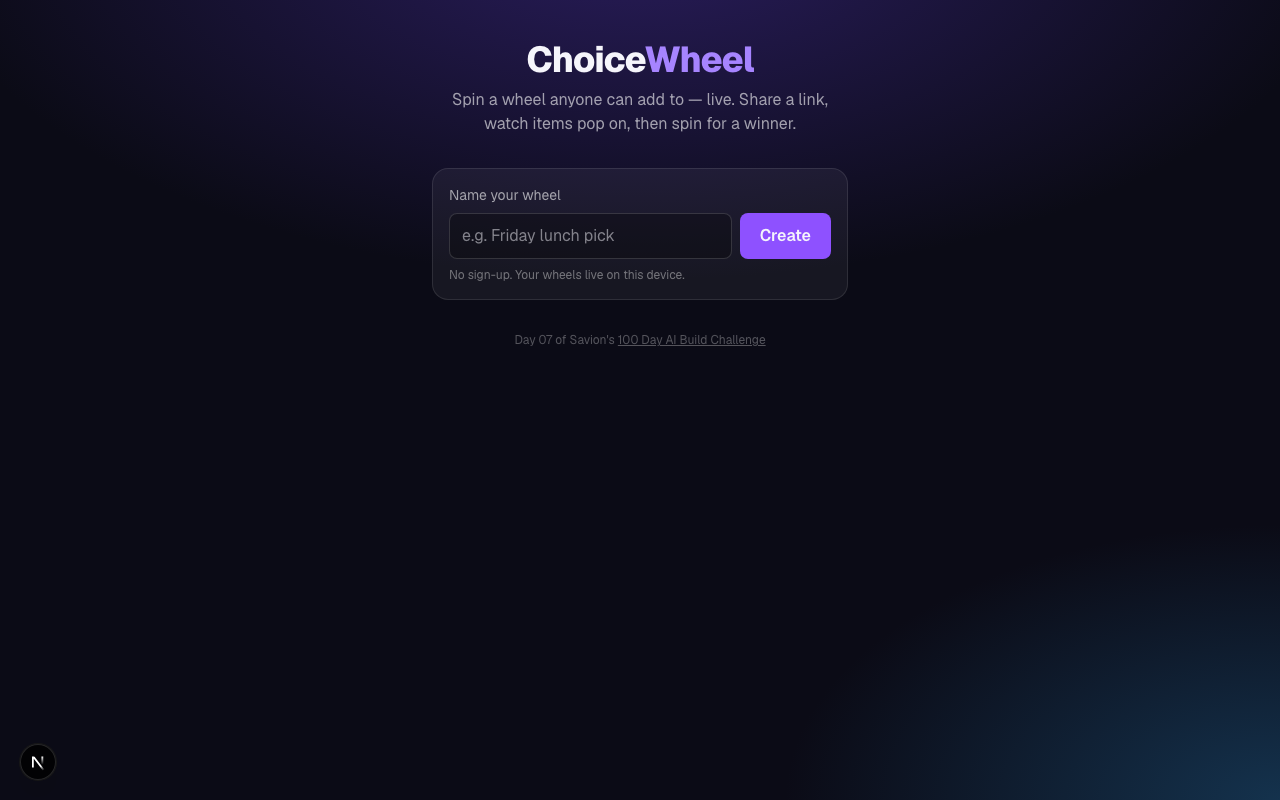
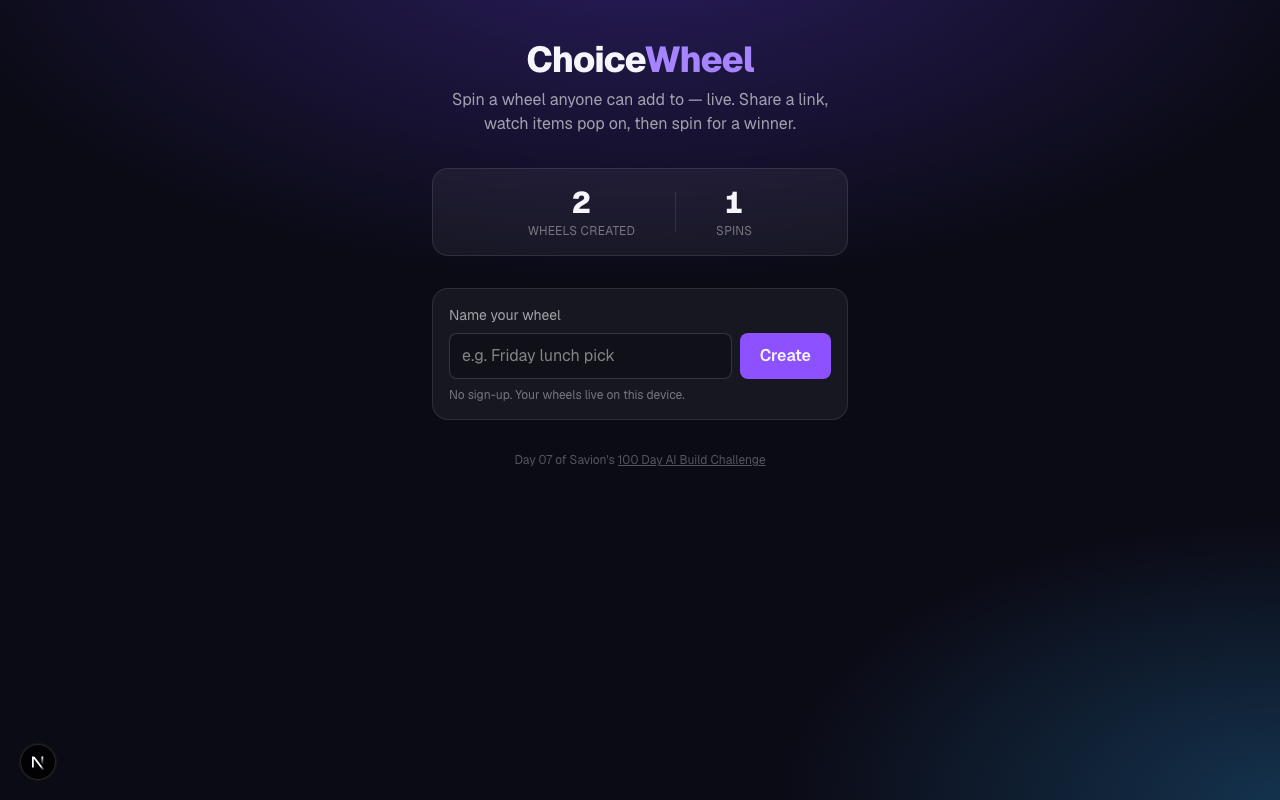
Publish: day-07-choicewheel

diff --git a/components/StatsTicker.tsx b/components/StatsTicker.tsx
@@ -1,0 +1,82 @@
+"use client";
+
+import { useEffect, useRef, useState } from "react";
+import { createClient } from "@/lib/supabase/client";
+import { getStats } from "@/lib/api";
+import type { Stats } from "@/lib/types";
+
+// Counts up to `value` and re-animates whenever it changes (e.g. a live spin).
+function AnimatedNumber({ value }: { value: number }) {
+  const [display, setDisplay] = useState(0);
+  const fromRef = useRef(0);
+
+  useEffect(() => {
+    const from = fromRef.current;
+    const to = value;
+    if (from === to) return;
+    const t0 = performance.now();
+    const dur = 700;
+    let raf = 0;
+    const step = (now: number) => {
+      const t = Math.min(1, (now - t0) / dur);
+      const eased = 1 - Math.pow(1 - t, 3);
+      setDisplay(Math.round(from + (to - from) * eased));
+      if (t < 1) raf = requestAnimationFrame(step);
+      else fromRef.current = to;
+    };
+    raf = requestAnimationFrame(step);
+    return () => cancelAnimationFrame(raf);
+  }, [value]);
+
+  return <>{display.toLocaleString()}</>;
+}
+
+function Stat({ value, label }: { value: number; label: string }) {
+  return (
+    <div className="text-center">
+      <div className="text-3xl font-extrabold tabular-nums">
+        <AnimatedNumber value={value} />
+      </div>
+      <div className="mt-0.5 text-xs uppercase tracking-wide text-white/40">{label}</div>
+    </div>
+  );
+}
+
+// Live lifetime counters (separate from row counts, so deletions never lower them).
+export function StatsTicker() {
+  const [stats, setStats] = useState<Stats | null>(null);
+
+  useEffect(() => {
+    let active = true;
+    getStats()
+      .then((s) => {
+        if (active && s) setStats(s);
+      })
+      .catch(() => {});
+
+    const sb = createClient();
+    const channel = sb
+      .channel("choicewheel:stats")
+      .on(
+        "postgres_changes",
+        { event: "UPDATE", schema: "public", table: "choicewheel_stats", filter: "id=eq.1" },
+        (payload) => setStats(payload.new as Stats),
+      )
+      .subscribe();
+
+    return () => {
+      active = false;
+      sb.removeChannel(channel);
+    };
+  }, []);
+
+  if (!stats) return null;
+
+  return (
+    <div className="flex items-center justify-center gap-10 rounded-2xl bg-white/5 border border-white/10 py-4">
+      <Stat value={stats.wheels_created} label="wheels created" />
+      <span className="h-10 w-px bg-white/10" aria-hidden />
+      <Stat value={stats.total_spins} label="spins" />
+    </div>
+  );
+}

diff --git a/lib/api.ts b/lib/api.ts
@@ -1,5 +1,5 @@
 import { createClient } from "@/lib/supabase/client";
-import type { Claim, Item, Wheel } from "@/lib/types";
+import type { Claim, Item, Stats, Wheel } from "@/lib/types";
 
 // Thin wrappers over the SECURITY DEFINER RPCs. Errors from Postgres surface as
 // supabase error.message (e.g. "submissions are closed"); we re-throw them so the
@@ -158,6 +158,17 @@ export async function submitClaim(claim: {
     p_country: claim.country,
   });
   if (error) throw new Error(error.message);
+}
+
+export async function getStats(): Promise<Stats | null> {
+  const sb = createClient();
+  const { data, error } = await sb
+    .from("choicewheel_stats")
+    .select("wheels_created, total_spins")
+    .eq("id", 1)
+    .maybeSingle();
+  if (error) throw new Error(error.message);
+  return data as Stats | null;
 }
 
 export async function getClaims(token: string): Promise<Claim[]> {

diff --git a/lib/types.ts b/lib/types.ts
@@ -21,6 +21,11 @@ export type Item = {
   created_at: string;
 };
 
+export type Stats = {
+  wheels_created: number;
+  total_spins: number;
+};
+
 export type Claim = {
   id: string;
   wheel_id: string;

diff --git a/app/page.tsx b/app/page.tsx
@@ -5,6 +5,7 @@ import { useRouter } from "next/navigation";
 import Link from "next/link";
 import { createWheel, deleteWheel } from "@/lib/api";
 import { getMyWheels, saveMyWheel, removeMyWheel, type SavedWheel } from "@/lib/storage";
+import { StatsTicker } from "@/components/StatsTicker";
 
 // Wheels auto-delete 24h after creation (a pg_cron job server-side); mirror that here
 // so the dashboard stops listing ones that have aged out.
@@ -70,6 +71,8 @@ export default function Home() {
           Spin a wheel anyone can add to — live. Share a link, watch items pop on, then spin for a winner.
         </p>
       </div>
+
+      <StatsTicker />
 
       <form onSubmit={handleCreate} className="rounded-2xl bg-white/5 border border-white/10 p-4">
         <label className="block text-sm text-white/60 mb-2">Name your wheel</label>